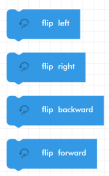
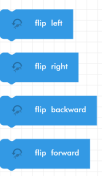
Align to left and update reference class

diff --git a/src/css/custom.css b/src/css/custom.css
@@ -203,6 +203,20 @@ html[data-theme="dark"] .docusaurus-highlight-code-line {
   justify-content: center;
 }
 
+.boxLandingColumn2 {
+  display: flex;
+  justify-content: center;
+  padding-left: 0px !important;
+}
+
+.boxLandingColumn2 div {
+  text-align: left;
+  margin-right: 20px;
+  padding: 0 15px 15px 0px;
+  padding-bottom: 20px;
+  padding-left: 0px !important;
+}
+
 @media (max-width: 800px) {
   .boxLanding {
     flex-direction: column;
@@ -210,7 +224,7 @@ html[data-theme="dark"] .docusaurus-highlight-code-line {
 }
 
 .boxLanding div {
-  text-align: center;
+  text-align: left;
   margin-right: 20px;
   padding: 0 15px 15px 15px;
   padding-bottom: 20px;
@@ -228,6 +242,7 @@ html[data-theme="dark"] .docusaurus-highlight-code-line {
   font-style: normal;
   font-weight: bold;
   font-size: 19px;
+  text-align: center;
   color: #888888;
 }
 

diff --git a/docs/codrone-mini/blockly/reference.md b/docs/codrone-mini/blockly/reference.md
@@ -36,19 +36,19 @@ These are the Blockly functions that you can use to control the CoDrone Mini. Ex
   </div>
   <div  class="parentContainer">
     <h3> Flight Sequences</h3>
-    <div class="boxLanding">
-      <div>
+    <div class="boxLandingColumn2">
+      
         <img src="/doc-v2/img/flips.png"></img>
-      </div>
+      
     </div>
  
   </div>
     <div  class="parentContainer">
     <h3> Status Checkers</h3>
-    <div class="boxLanding">
-      <div>
+    <div class="boxLandingColumn2">
+      
         <img src="/doc-v2/img/code_is_running.png"></img>
-      </div>
+  
     </div>
  
   </div>

diff --git a/docs/codrone-mini/blockly/reference_senior.md b/docs/codrone-mini/blockly/reference_senior.md
@@ -36,19 +36,19 @@ These are the Blockly functions that you can use to control the CoDrone Mini. Ex
   </div>
   <div  class="parentContainer">
     <h3> Flight Sequences</h3>
-    <div class="boxLanding">
-      <div>
+    <div class="boxLandingColumn2">
+      
         <img src="/doc-v2/img/flips.png"></img>
-      </div>
+      
     </div>
  
   </div>
     <div  class="parentContainer">
     <h3> Status Checkers</h3>
-    <div class="boxLanding">
-      <div>
+    <div class="boxLandingColumn2">
+      
         <img src="/doc-v2/img/code_is_running.png"></img>
-      </div>
+  
     </div>
  
   </div>
